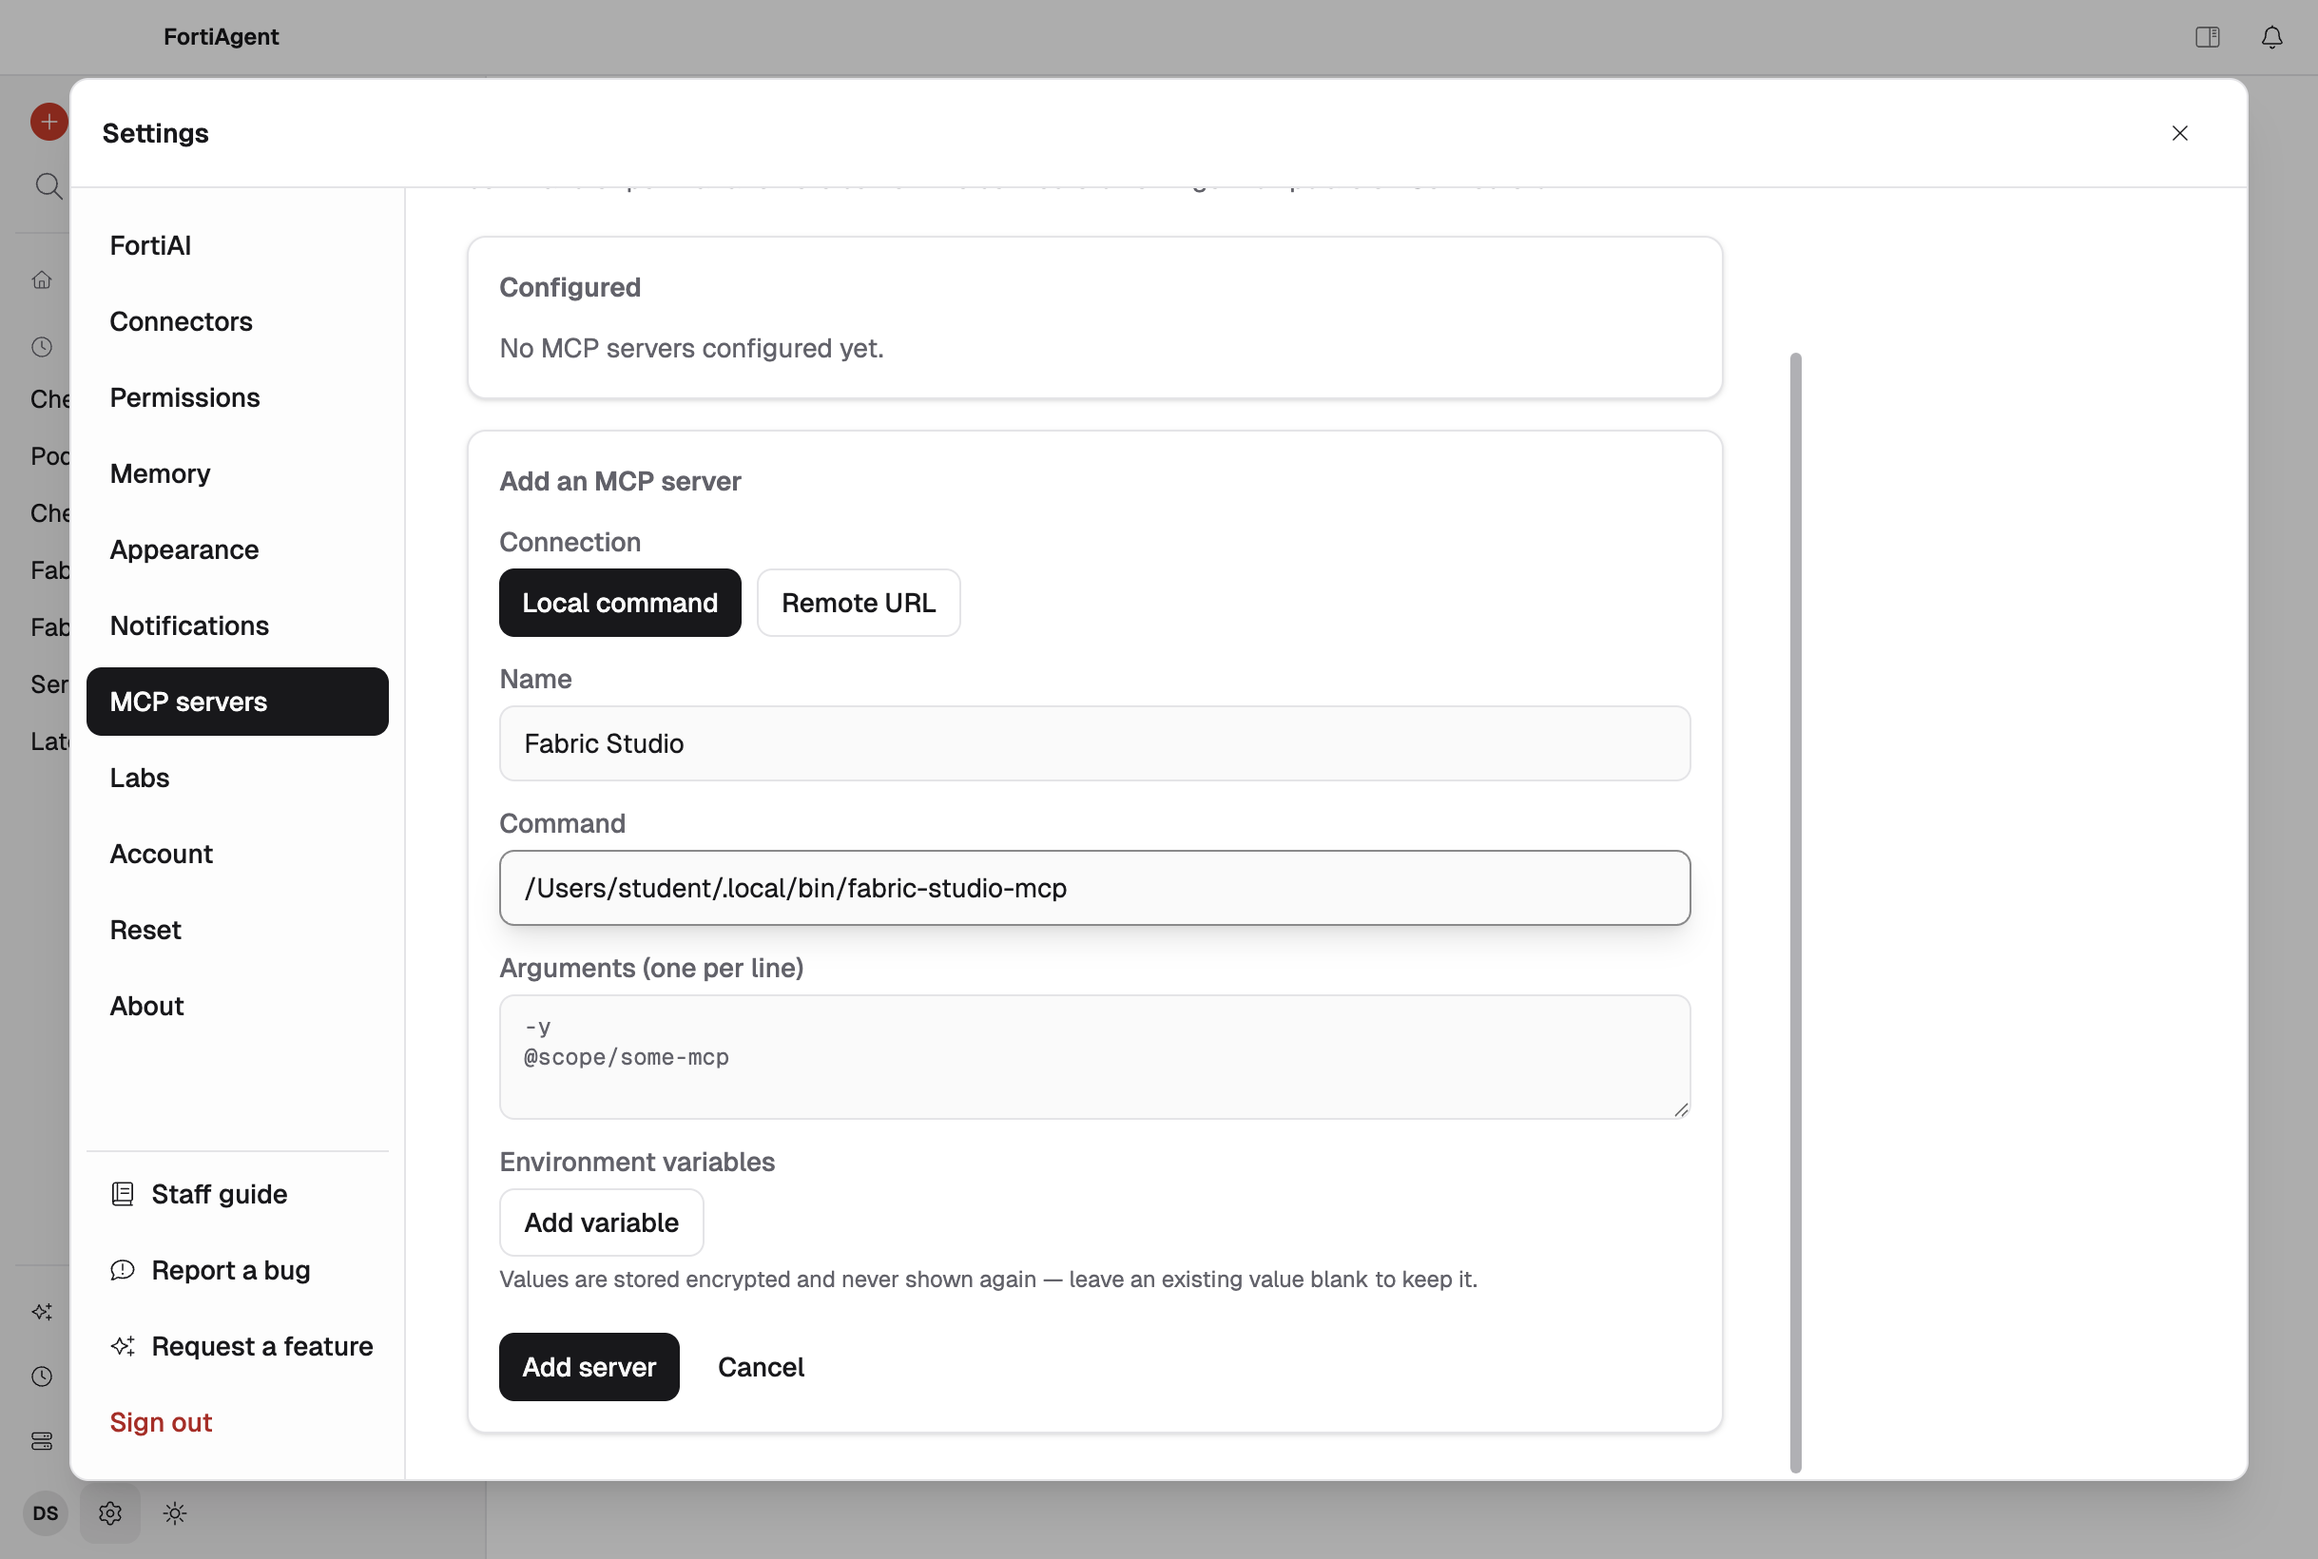
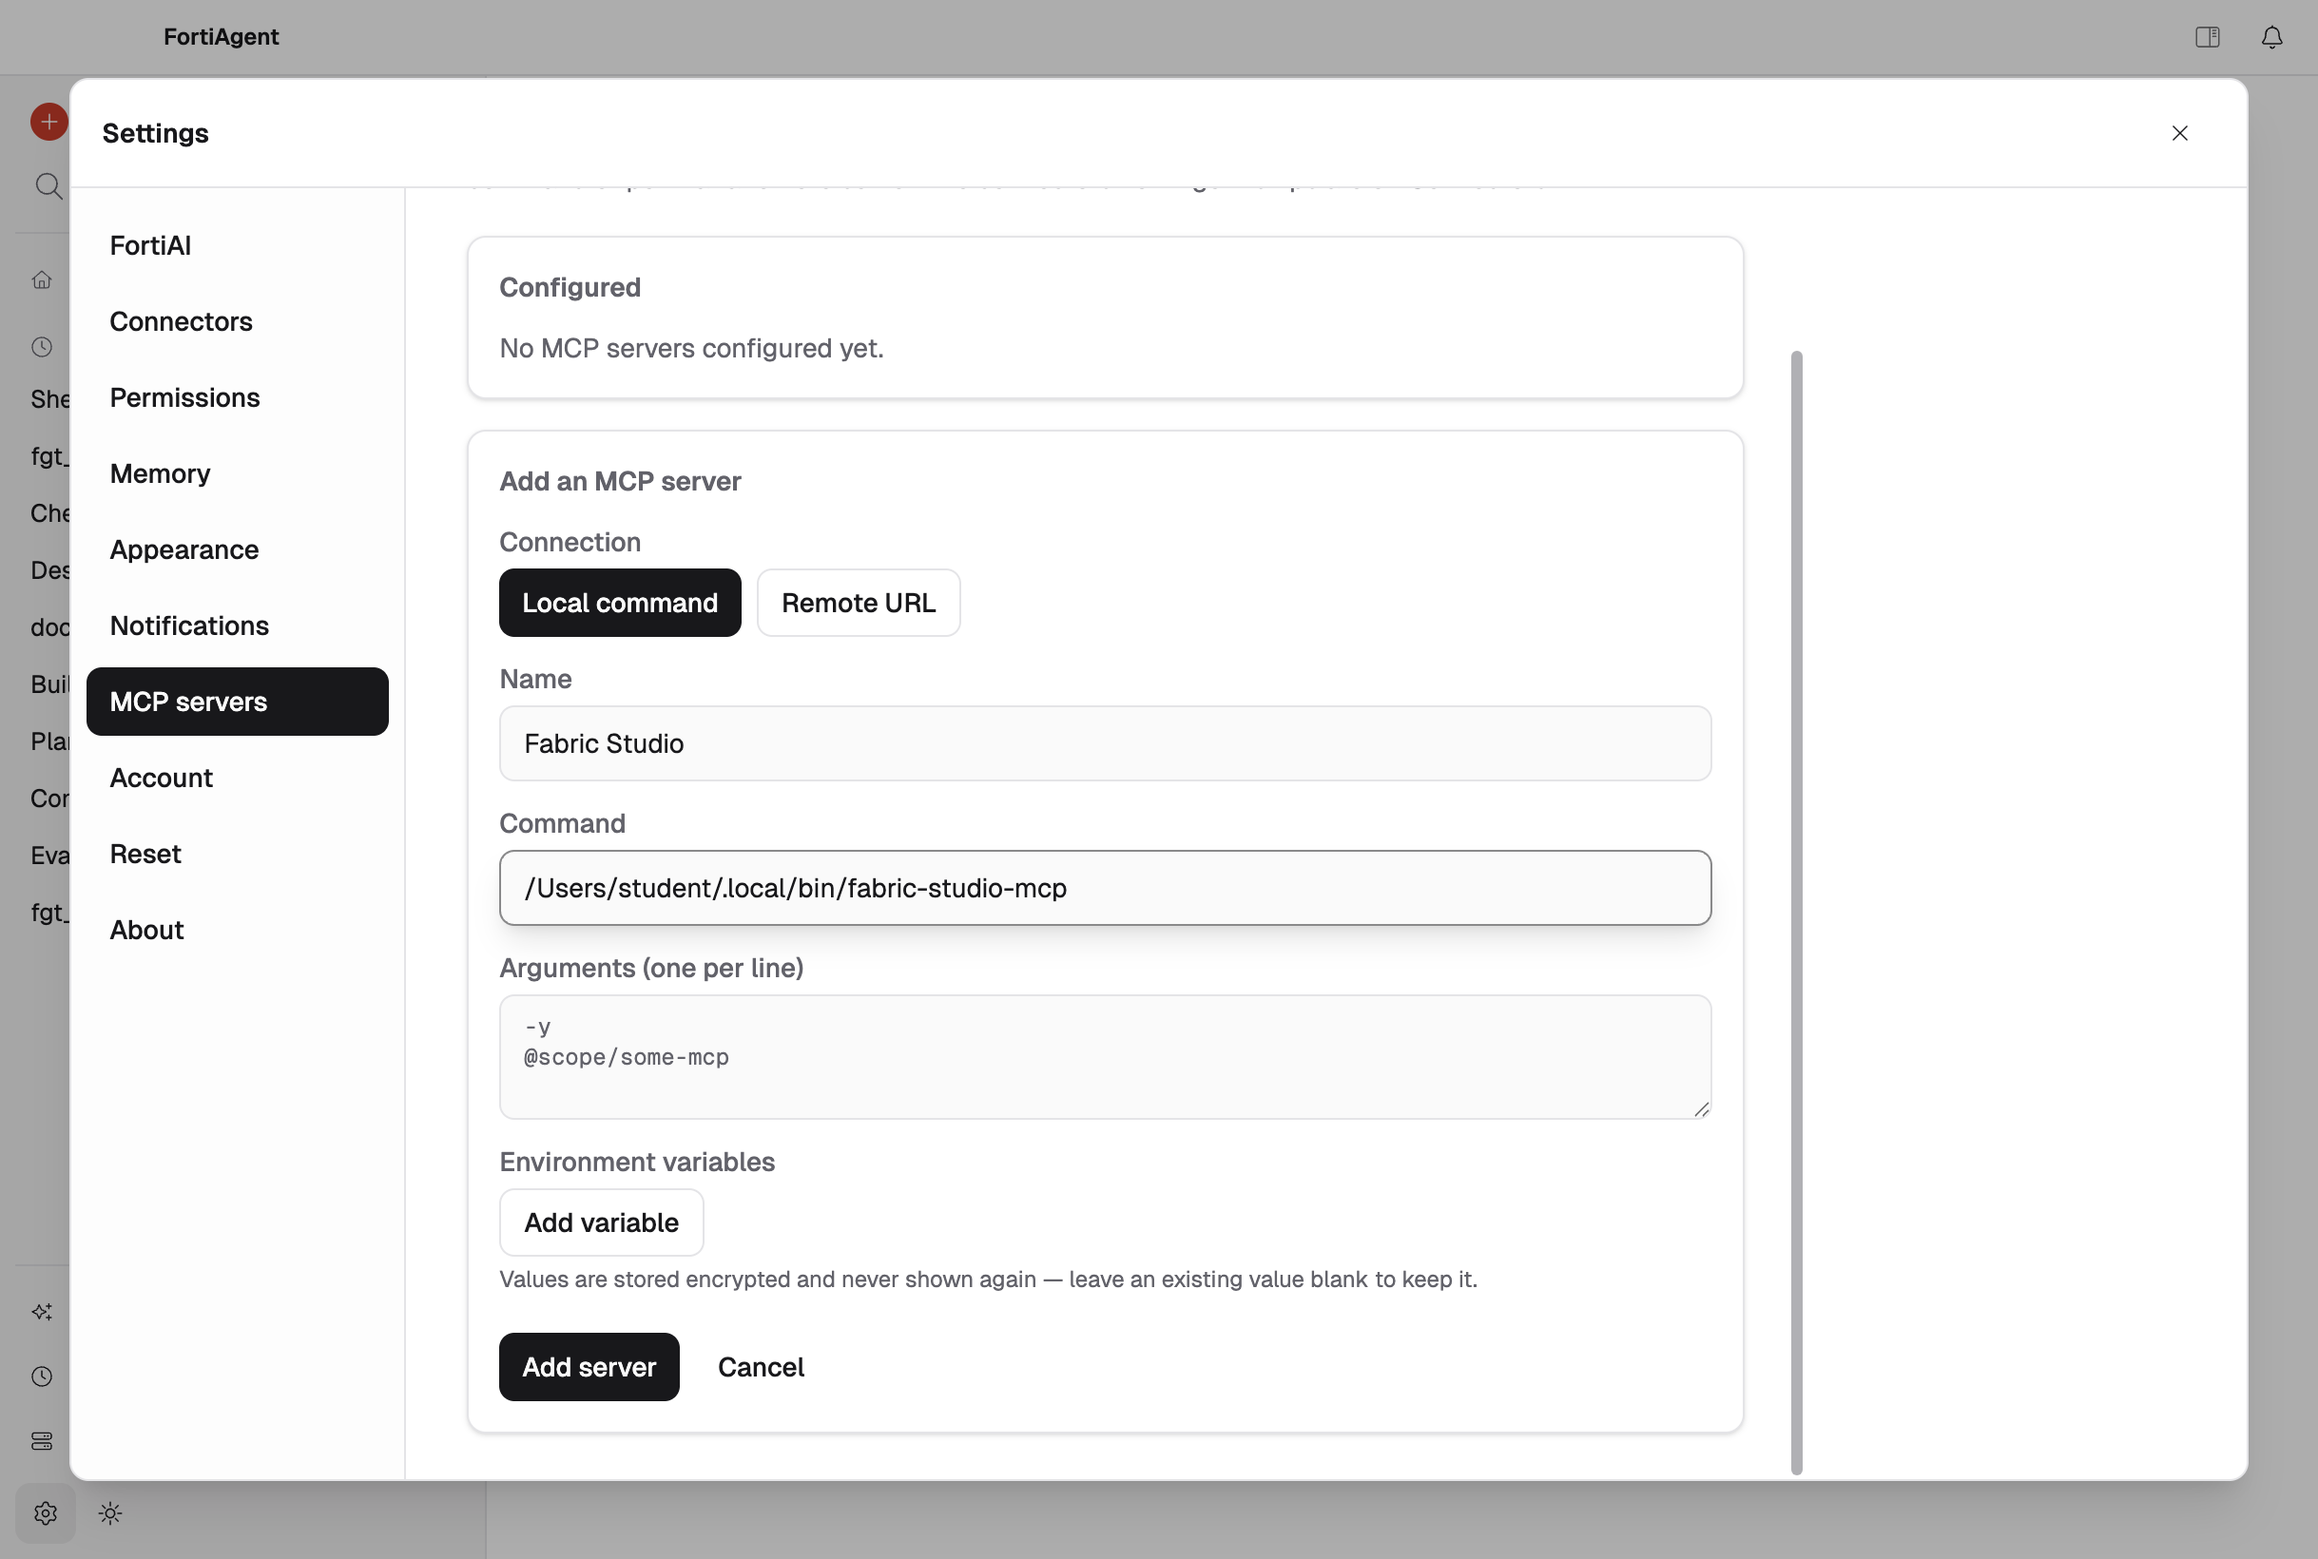
ch09 Connect FortiAgent: re-capture fsm09-20/21, sturdier server-row wait, ocrAllow on fsm09-22
fsm09-21 now shows the student path in the Command field. The fsm09-22 row
wait is 240 s (a busy engine can hold the add for minutes), and its shot
allows /Users/student, which the OCR gate otherwise flags as a host path.

diff --git a/docubot/09-mcp-server/fortiagent.spec.ts b/docubot/09-mcp-server/fortiagent.spec.ts
@@ -147,13 +147,15 @@ test('Connect FortiAgent to the fabric-studio MCP server', async ({ app, capture
     await test.step('fsm09-22-fortiagent-server-ready', async () => {
       // Listed under Configured with its name and command: FortiAgent shows no status until a chat starts it.
       const row = servers.first();
-      await row.waitFor({ timeout: 30_000 });
+      // A busy engine (bundled connectors still provisioning) can hold the add for minutes: one run saw the row land
+      // a second inside a 120 s wait, another saw it need the better part of three.
+      await row.waitFor({ timeout: 240_000 });
       // The name gives the ID the skill requires: a second "Fabric Studio" would be fabric-studio-2.
       const ids = ours().map((s) => s.id);
       if (ids.join() !== 'fabric-studio') throw new Error(`the Fabric Studio servers are ${ids.join(', ') || 'none'}, not fabric-studio`);
       log('server listed under Configured, ID fabric-studio');
       // The row's "Protocol 2026-07-28" is the MCP protocol revision, page content the scan reads as a date.
-      await capture.shot(w, 'fsm09-22-fortiagent-server-ready', { highlight: [row], showAs, scrubSkip: ['date-or-time'] });
+      await capture.shot(w, 'fsm09-22-fortiagent-server-ready', { highlight: [row], showAs, scrubSkip: ['date-or-time'], ocrAllow: ['/Users/student'] });
     });
 
     await test.step('fsm09-25-fortiagent-import-skill', async () => {
